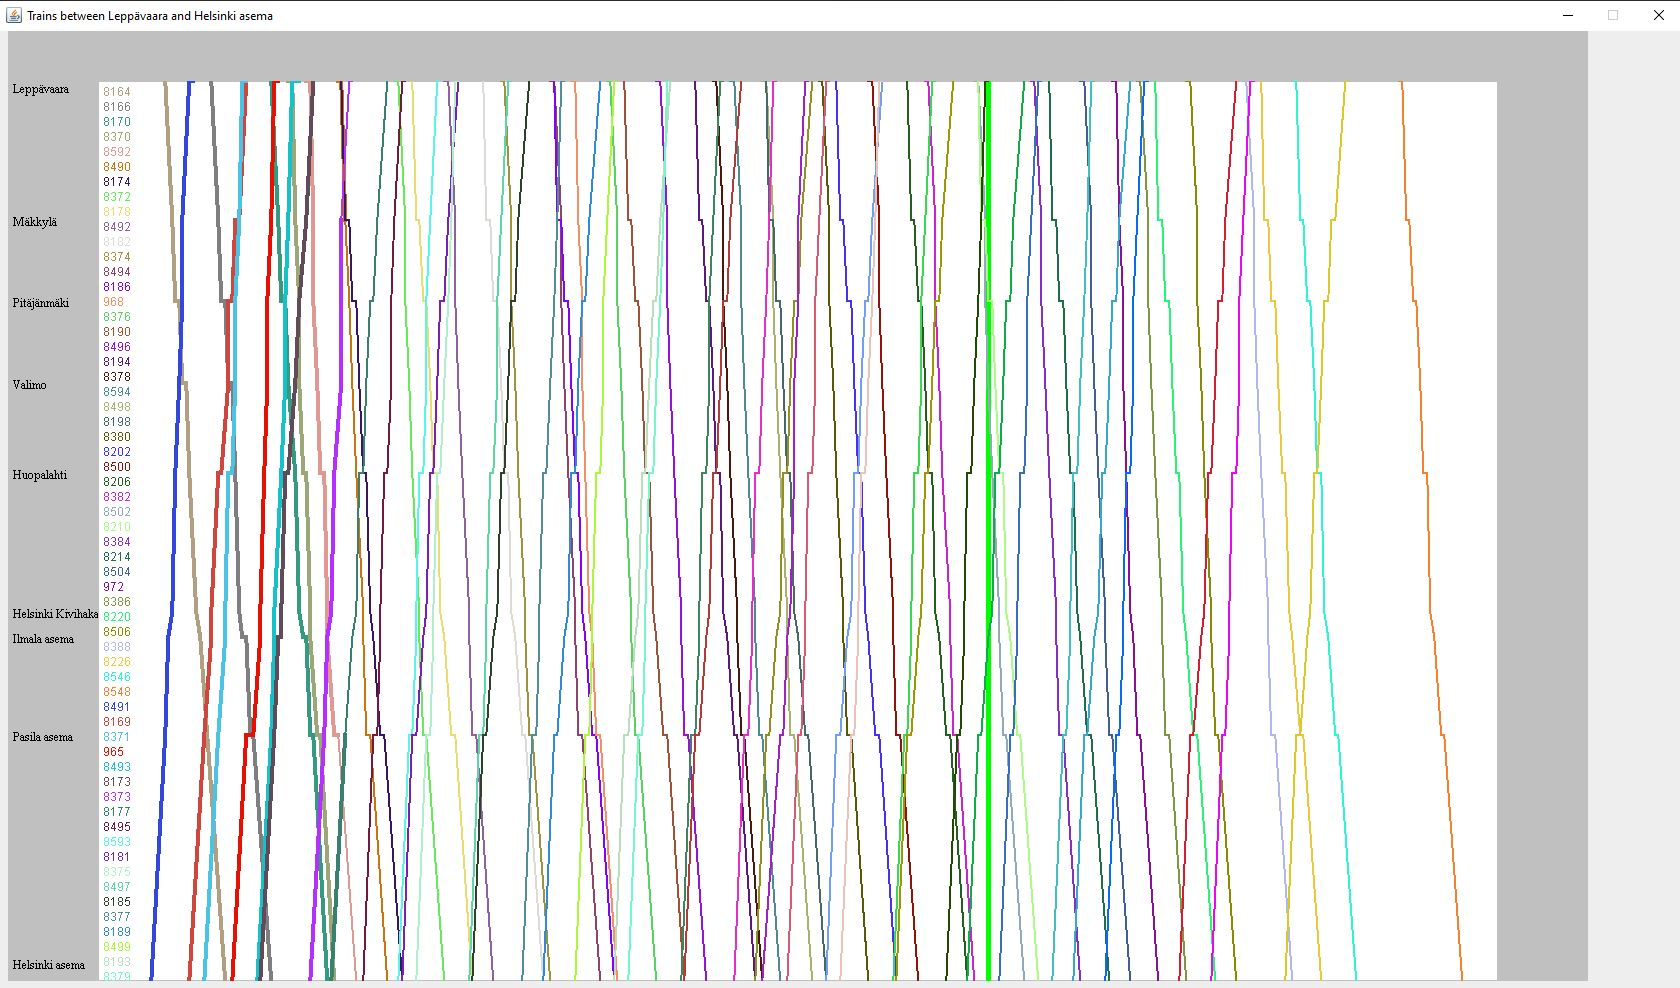
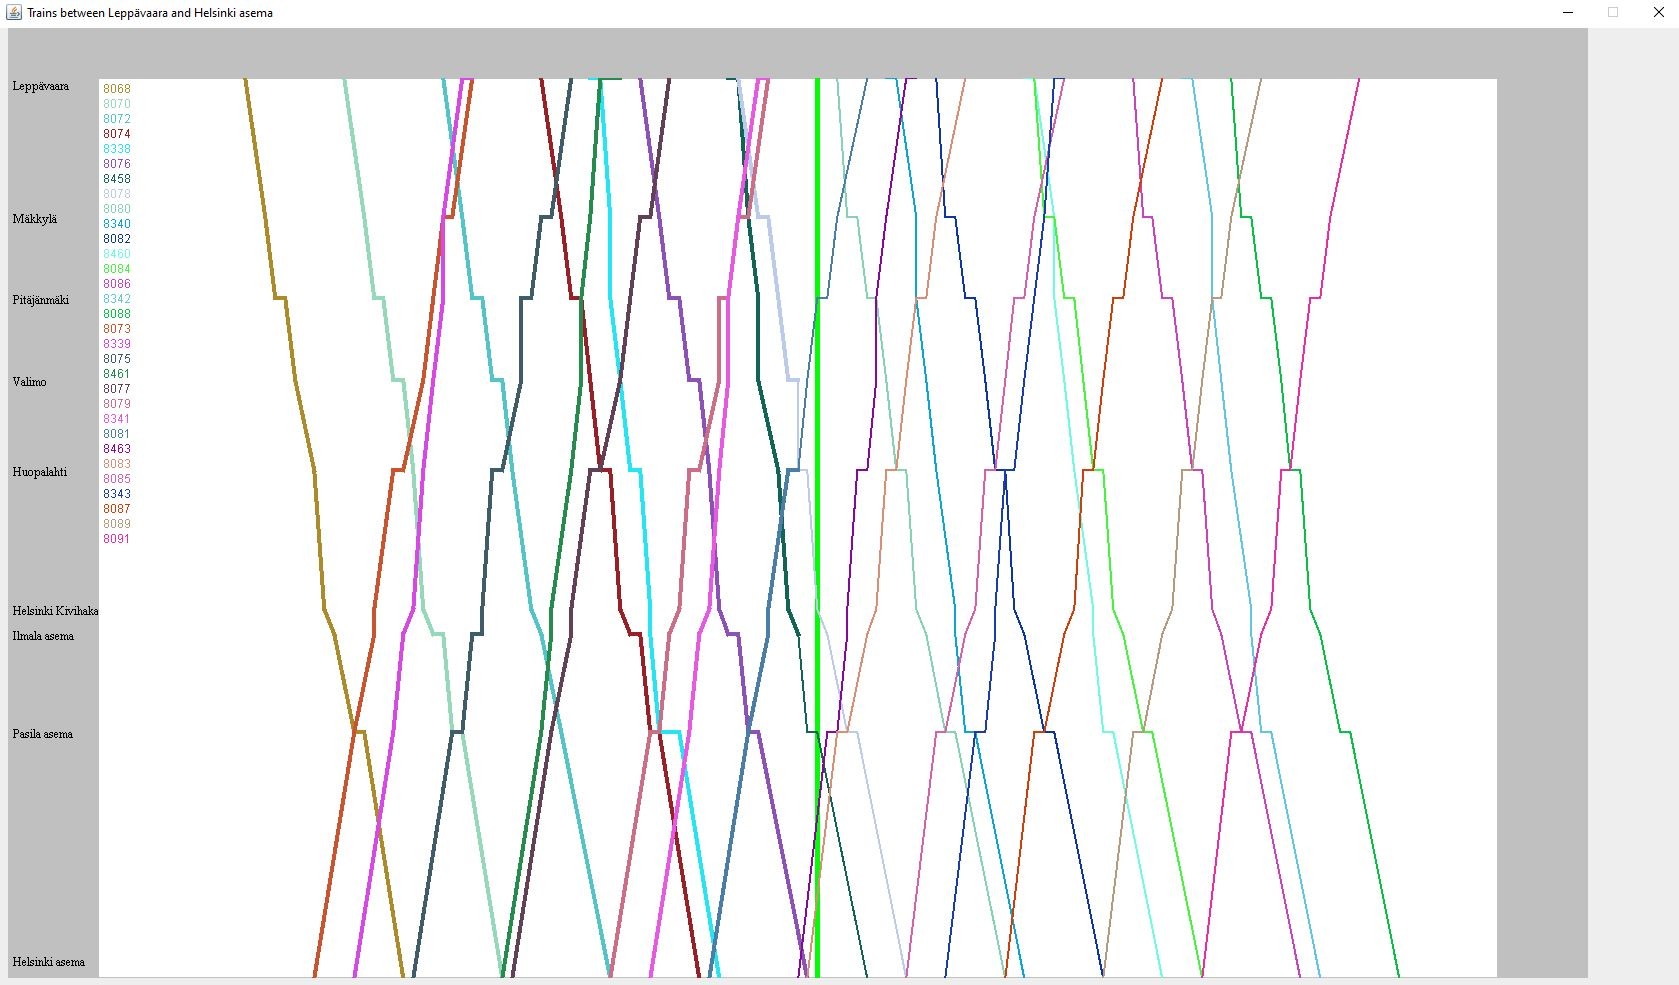
Fixed timezone related bug.

diff --git a/coding-samples/train-tracking/src/main/api/GetInformartionFromApi.java b/coding-samples/train-tracking/src/main/api/GetInformartionFromApi.java
@@ -5,6 +5,7 @@ import java.net.http.HttpClient;
 import java.net.http.HttpRequest;
 import java.net.http.HttpResponse;
 import java.time.LocalDate;
+import java.time.ZoneId;
 import java.util.zip.GZIPInputStream;
 import java.io.BufferedReader;
 import java.io.InputStream;
@@ -16,8 +17,8 @@ import org.json.simple.parser.*;
 public class GetInformartionFromApi {
 
     public JSONArray getTrainInfoFromApi(String station1, String station2) {
-        String localDateNow = LocalDate.now().toString();
-        // localDateNow = "2024-04-12";
+        // String localDateNow = LocalDate.now().toString();
+        String localDateNow = LocalDate.now(ZoneId.of("UTC")).toString();
 
         String uriForApi = "https://rata.digitraffic.fi/api/v1/live-trains/station/" + station1 + "/" + station2 + "?departure_date=" + localDateNow + "&include_nonstopping=false";
 
@@ -29,11 +30,14 @@ public class GetInformartionFromApi {
 
         JSONArray json = null;
 
+        
+
         // Add check for REST return code.
 
         try {        
             HttpResponse<InputStream> response = HttpClient.newHttpClient()
 	        .send(request, HttpResponse.BodyHandlers.ofInputStream());
+
 
             GZIPInputStream gzipstream = new GZIPInputStream(response.body());
             InputStreamReader isReader = new InputStreamReader(gzipstream);

diff --git a/coding-samples/train-tracking/src/main/api/TrainSchedulesFromJson.java b/coding-samples/train-tracking/src/main/api/TrainSchedulesFromJson.java
@@ -1,5 +1,6 @@
 package api;
 import java.time.LocalDateTime;
+import java.time.ZoneId;
 import java.time.format.DateTimeFormatter;
 import java.util.ArrayList;
 import org.json.simple.JSONArray;
@@ -41,7 +42,8 @@ public class TrainSchedulesFromJson {
 
         DateTimeFormatter formatter = DateTimeFormatter.ofPattern("yyyy-MM-dd'T'HH:mm:ss.SSS'Z'");
 
-        final LocalDateTime timeNow = LocalDateTime.now();
+        // NOTE: By not passing on time from API might cause a bug if run at the millisecond when date changes.
+        final LocalDateTime timeNow = LocalDateTime.now(ZoneId.of("UTC"));
         final LocalDateTime timeNowMinusXHours = timeNow.minusHours(gapHours);
         final LocalDateTime timeNowPlusXHours = timeNow.plusHours(gapHours);
         // final LocalDateTime timeNowMinusXHours = timeNow.minusMinutes(30);

diff --git a/coding-samples/train-tracking/src/main/gui/TrainGraphPanel.java b/coding-samples/train-tracking/src/main/gui/TrainGraphPanel.java
@@ -5,6 +5,7 @@ import java.awt.Color;
 import java.awt.Graphics;
 import java.awt.Graphics2D;
 import java.time.LocalDateTime;
+import java.time.ZoneId;
 import java.util.ArrayList;
 
 import javax.swing.BorderFactory;
@@ -55,7 +56,7 @@ public class TrainGraphPanel extends JPanel {
         Graphics2D g2d = (Graphics2D) g;
 
         // Draw current time as a thick green vertical line.
-        LocalDateTime timeNow = LocalDateTime.now();
+        LocalDateTime timeNow = LocalDateTime.now(ZoneId.of("UTC"));
         int nowSeconds = 60 * timeNow.getHour() + timeNow.getMinute();
         int xNow = (int) ((((float) nowSeconds - (float) zeroPoint) / ((float) endPoint - (float) zeroPoint))
                 * (float) this.width);

diff --git a/coding-samples/train-tracking/src/main/App.java b/coding-samples/train-tracking/src/main/App.java
@@ -18,7 +18,7 @@ public class App {
      */
     public static void run() {
         // Amount of hours before and after current time to accept train timestamps for.
-        final int timeSpan = 4;
+        final int timeSpan = 1;
 
         // NOTE: Used route and station hard coded into StationInformation.
         StationInformation stationInfo = new StationInformation();

diff --git a/coding-samples/train-tracking/README.md b/coding-samples/train-tracking/README.md
@@ -3,7 +3,7 @@
 * Tracks trains between "Leppävaara" and "Helsinki Asema".
 * Also tested between "Jyväskylä" and "Äänekoski".
 * The two axes represent distance (represented by stations) and time, with the thick green vertical line indicating time now.
-* Only shows trains whose timetable entries are within 4 hours of current time.
+* Only shows trains whose timetable entries are within 1 hours of current UTC time.
 
 ### Running
 * Runnable with the Windows Command promt / Linux shell.
@@ -14,13 +14,19 @@
 * To compile the project, you need to add file "lib\json-simple-1.1.1.jar" to the project. Other libraries should be standard libraries.
 * Use "javac -classpath lib\json-simple-1.1.1.jar "
 
+### Important changes
+* 2024-05-03
+    * Fixed bug regarding UTC time vs. local time. Used timezone wasn't well documented in used API.
+    * Reduced time window to +- 1 hour from current UTC time.
+
 ### Notes and TODOs
 * Code would benefit from refactoring. Ran out of time initially.
 * Could include more checks and error handling.
 * Train graph lines and station labels now take into account actual station distances.
-* Actual train times are combined with scheduled times, since given API gives out very few actual times.
+* Draw different graphs for Actual times and Scheduled time, instead of combining them.
 * API doesn't seem to give train names, only train numbers, so train names could not be implemented.
 * Hover over line showing train name not implemented. Not even tried, as API seems to lack train names requested. Possibly later with something like GeneralPath.
+* Need to change lines to objects if hover fuctionality to be implemented.
 * Button to switch axes no implemented due to lack of time. (Not sure what the added value in changing axes is either)
 * Current implementation is not realtime, i.e. app doesn't update graph. Possible future improvement.
 * Hasn't been tested if used is outside Finnish timezone. Probably doesn't work.
